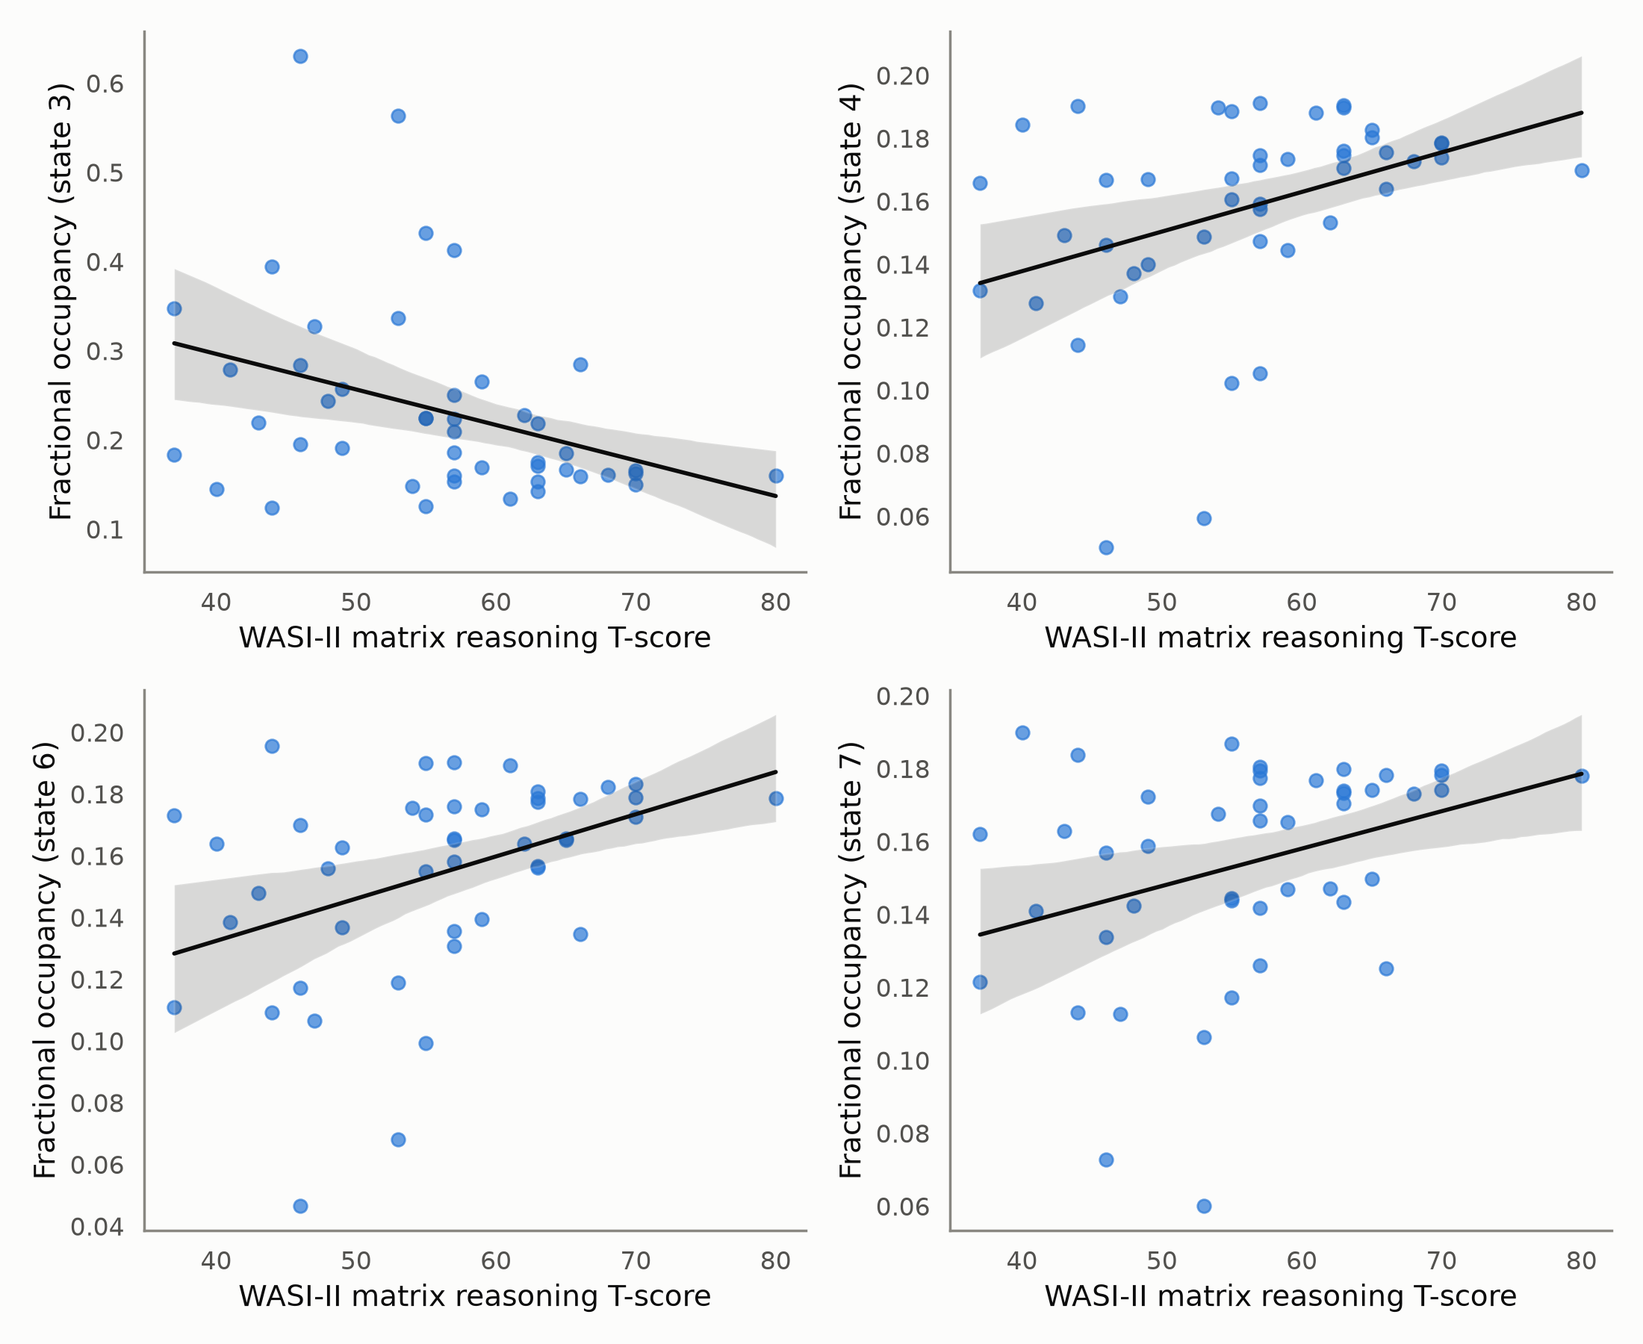
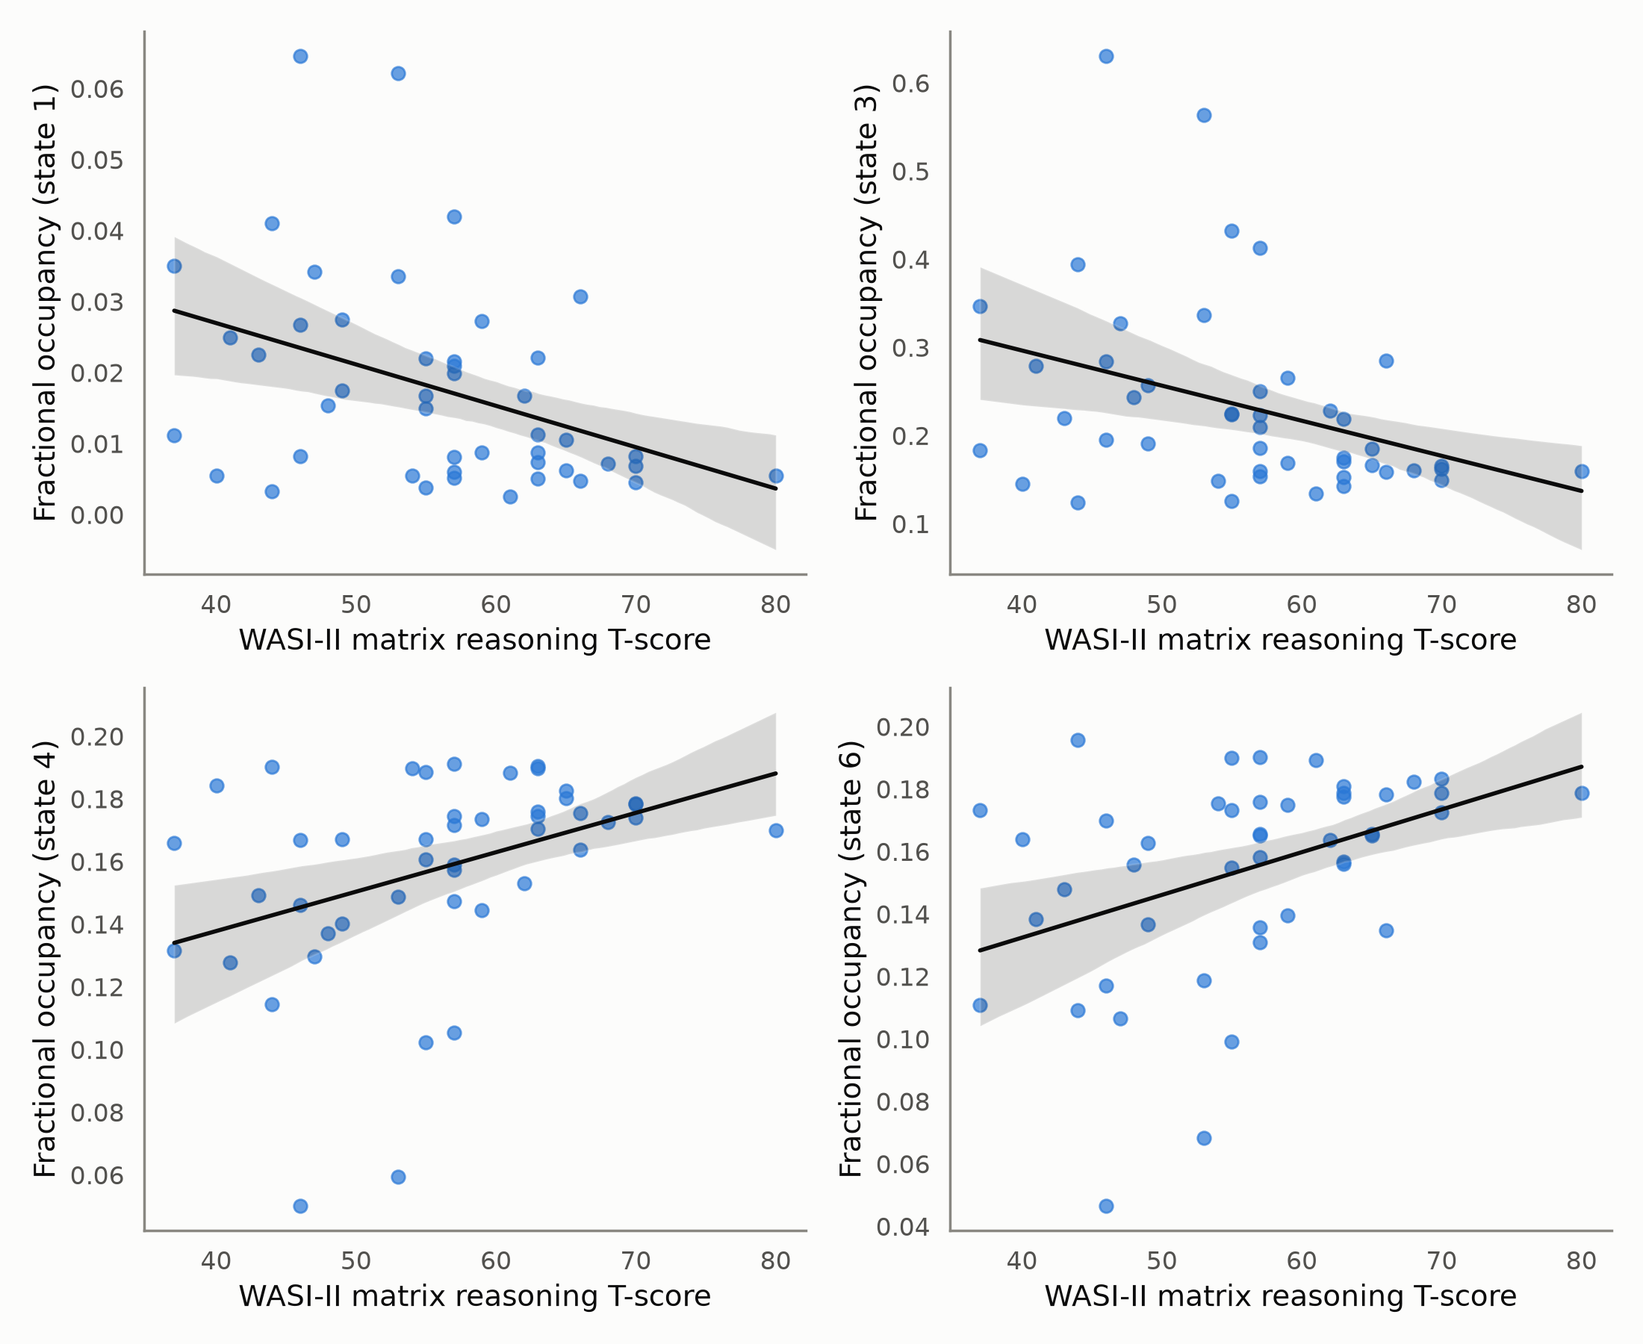
Report per-state simple slopes, not contrasts against a reference state
The treatment-coded model reports C(state)[T.k]:cognition as the DIFFERENCE
between state k's cognition slope and the reference state's, and the bare
cognition term as the reference state's own slope. Those were being read as
per-state effects, which they are not.

fit_state_metric_model_simple_slopes reparameterises to give each state its
own slope. The fit is unchanged - same fitted values, same residual df, it is
a change of basis - but three conclusions moved:

  - state 1 is significant for occupancy and interval; it had been hidden
    inside the "main effect" term
  - mean interval is significant for state 1 only, not for every state; the
    earlier all-states result was every state differing from state 1
  - states 2 and 5 are null throughout; they only differed from state 1
  - entropy ~ cognition falls to p_adj = 0.057, marginal against the 31-test
    family (0.031 if entropy is treated as its own 3-test family - an open
    decision now documented in the supplement)

Tests assert the reparameterisation preserves the fit and that a simple slope
equals reference slope plus its contrast, so the two cannot silently diverge.

Also adds a Markdown working copy of the manuscript and a notes file covering
errors found on re-reading it: Table 1's SDQ range, state 4 mislabelled as
fronto-parietal in the Discussion, the unsupported state-1 claim, the
participant-count inconsistency, and ~30 citations missing from the reference
list.

diff --git a/analysis/models.py b/analysis/models.py
@@ -113,6 +113,55 @@ def fit_state_metric_model_cluster_ols(
     return result, diagnostics
 
 
+def fit_state_metric_model_simple_slopes(
+    df: pd.DataFrame,
+    metric: str,
+    cognition_col: str = "WASI_T",
+    state_col: str = "state",
+    subject_col: str = "subject_id",
+):
+    """Per-state cognition slopes, each estimated in its own right.
+
+    `fit_state_metric_model` uses treatment coding, so its
+    `C(state)[T.k]:cognition` terms are the DIFFERENCE between state k's
+    cognition slope and the reference state's, and the bare `cognition`
+    term is the reference state's slope. That is the right model, but the
+    wrong parameterisation for the question this paper asks, which is "does
+    occupancy of state k relate to cognitive ability?" - not "does state k
+    differ from state 1?".
+
+    On the real data the distinction changed conclusions rather than just
+    wording: mean interval showed a significant difference-from-state-1 for
+    every state, but only state 1 itself had a non-zero slope; and states 2
+    and 5 looked significant for FO as differences while having no effect
+    of their own.
+
+    Dropping the standalone cognition main effect and keeping only
+    `C(state):cognition` makes patsy emit one coefficient per state, each
+    being that state's own slope. The model fit is identical (same design
+    space, same residuals) - only the basis changes, so this is a
+    reparameterisation rather than a different model. Age is kept as
+    `center(age) + center(age):cognition` written out explicitly, because
+    the `*` shorthand would reintroduce the cognition main effect and
+    collapse the per-state terms back into contrasts.
+    """
+    fixed_rhs = (
+        f"C({state_col}) + C({state_col}):center({cognition_col})"
+        f" + center(age) + center(age):center({cognition_col}) + C(sex)"
+    )
+    formula = f"{metric} ~ {fixed_rhs}"
+    result = smf.ols(formula, df).fit(cov_type="cluster", cov_kwds={"groups": df[subject_col]})
+
+    diagnostics = {"normality": _residual_normality(result.resid.values)}
+    return result, diagnostics
+
+
+def state_slope_terms(n_states: int = 7, cognition_col: str = "WASI_T", state_col: str = "state") -> list[str]:
+    """Coefficient names for the per-state slopes from
+    `fit_state_metric_model_simple_slopes`, in state order."""
+    return [f"C({state_col})[{k}]:center({cognition_col})" for k in range(1, n_states + 1)]
+
+
 def fit_subject_scalar_model(
     df: pd.DataFrame,
     outcome: str,

diff --git a/analysis/tests/test_models.py b/analysis/tests/test_models.py
@@ -8,8 +8,10 @@ from analysis.correction import correct_pvalues
 from analysis.models import (
     fit_state_metric_model,
     fit_state_metric_model_cluster_ols,
+    fit_state_metric_model_simple_slopes,
     fit_subject_scalar_model,
     fit_transition_matrix_model,
+    state_slope_terms,
     transition_column_sums,
 )
 
@@ -98,6 +100,41 @@ def test_fit_state_metric_model_cluster_ols_runs_and_returns_diagnostics(synthet
     assert result.cov_type == "cluster"
     assert "normality" in diagnostics
     assert "vif" in diagnostics
+
+
+def test_simple_slopes_gives_one_coefficient_per_state(synthetic_state_level):
+    result, _ = fit_state_metric_model_simple_slopes(synthetic_state_level, metric="FO")
+    terms = state_slope_terms(N_STATES)
+
+    assert len(terms) == N_STATES
+    for term in terms:
+        assert term in result.params.index, f"missing per-state slope: {term}"
+
+
+def test_simple_slopes_reparameterisation_preserves_the_fit(synthetic_state_level):
+    # Reparameterising must not change the model, only the basis: identical
+    # fitted values and residuals. If this ever fails, the two functions are
+    # fitting genuinely different models and their results aren't comparable.
+    treatment, _ = fit_state_metric_model_cluster_ols(synthetic_state_level, metric="FO")
+    simple, _ = fit_state_metric_model_simple_slopes(synthetic_state_level, metric="FO")
+
+    assert np.allclose(treatment.fittedvalues, simple.fittedvalues, atol=1e-8)
+    assert treatment.df_model == simple.df_model
+
+
+def test_simple_slope_equals_reference_slope_plus_its_contrast(synthetic_state_level):
+    # State k's simple slope should equal (reference slope + difference term)
+    # from the treatment-coded fit. This is the identity that makes the
+    # earlier misreading concrete: the treatment-coded interaction alone is
+    # NOT state k's slope.
+    treatment, _ = fit_state_metric_model_cluster_ols(synthetic_state_level, metric="FO")
+    simple, _ = fit_state_metric_model_simple_slopes(synthetic_state_level, metric="FO")
+
+    reference_slope = treatment.params["center(WASI_T)"]
+    for k in range(2, N_STATES + 1):
+        expected = reference_slope + treatment.params[f"C(state)[T.{k}]:center(WASI_T)"]
+        actual = simple.params[f"C(state)[{k}]:center(WASI_T)"]
+        assert actual == pytest.approx(expected, abs=1e-8)
 
 
 def test_fit_state_metric_model_runs_and_returns_diagnostics(synthetic_state_level):

diff --git a/analysis/permutation.py b/analysis/permutation.py
@@ -30,6 +30,7 @@ import pandas as pd
 from analysis.models import (
     fit_state_metric_model,
     fit_state_metric_model_cluster_ols,
+    fit_state_metric_model_simple_slopes,
     fit_subject_scalar_model,
 )
 
@@ -68,6 +69,7 @@ def permutation_test_state_metric_model(
     n_permutations: int = 1000,
     seed: int = 0,
     use_cluster_ols: bool = False,
+    simple_slopes: bool = False,
 ) -> pd.DataFrame:
     """Permutation p-values for `terms` (coefficient names as they appear in
     the fitted model's `.params`, e.g. `C(state)[T.3]:center(WASI_T)`) from
@@ -91,9 +93,20 @@ def permutation_test_state_metric_model(
     Do not enable this blindly on a dataset where the random-effect variance
     is genuinely non-zero: there the two estimators would legitimately
     differ, and the MixedLM path is the right one.
+
+    `simple_slopes=True` uses `fit_state_metric_model_simple_slopes`, whose
+    coefficients are each state's own cognition slope rather than its
+    difference from the reference state. Pass the term names from
+    `analysis.models.state_slope_terms` with it. This is what the paper's
+    per-state claims need; see that function's docstring.
     """
     rng = np.random.default_rng(seed)
-    fit_fn = fit_state_metric_model_cluster_ols if use_cluster_ols else fit_state_metric_model
+    if simple_slopes:
+        fit_fn = fit_state_metric_model_simple_slopes
+    elif use_cluster_ols:
+        fit_fn = fit_state_metric_model_cluster_ols
+    else:
+        fit_fn = fit_state_metric_model
 
     observed_result, _ = fit_fn(df, metric=metric, cognition_col=cognition_col, state_col=state_col, subject_col=subject_col)
     observed = {term: observed_result.params[term] for term in terms}

diff --git a/analysis/run_permutations.py b/analysis/run_permutations.py
@@ -30,7 +30,7 @@ from analysis.io import (
     load_transition_matrices,
     merged_state_level,
 )
-from analysis.models import transition_column_sums
+from analysis.models import state_slope_terms, transition_column_sums
 from analysis.permutation import (
     permutation_test_state_metric_model,
     permutation_test_subject_scalar_model,
@@ -38,10 +38,9 @@ from analysis.permutation import (
 
 FS = 250  # HMM_FinishPreprocessing.m: options.downsample = 250
 
-STATE_TERMS = [
-    "center(WASI_T)",
-    *[f"C(state)[T.{k}]:center(WASI_T)" for k in range(2, 8)],
-]
+# Each state's OWN cognition slope, not its difference from a reference
+# state - see analysis.models.fit_state_metric_model_simple_slopes.
+STATE_TERMS = state_slope_terms()
 ENTROPY_TERMS = ["center(WASI_T)", "center(age)", "center(WASI_T):center(age)"]
 
 
@@ -77,7 +76,7 @@ def main() -> None:
             warnings.simplefilter("ignore")
             res = permutation_test_state_metric_model(
                 df, metric=metric, terms=STATE_TERMS,
-                n_permutations=args.n_permutations, seed=args.seed, use_cluster_ols=True,
+                n_permutations=args.n_permutations, seed=args.seed, simple_slopes=True,
             )
         print(f"=== {label} ({args.n_permutations} permutations, {time.time() - t0:.0f}s) ===", flush=True)
         print(res.to_string(index=False), flush=True)

diff --git a/analysis/run_final_correction.py b/analysis/run_final_correction.py
@@ -48,13 +48,14 @@ def main() -> None:
 
     print()
     print("=" * 74)
-    print("BY STATE - state x cognition interaction terms (p_adjusted)")
+    print("BY STATE - each state's own cognition slope (p_adjusted)")
     print("=" * 74)
     print(f"{'State':<7}" + "".join(f"{m:<18}" for m in METRIC_ORDER))
-    for state in range(2, 8):
+    for state in range(1, 8):
         row = f"{state:<7}"
         for metric in METRIC_ORDER:
-            match = corrected[corrected["term"] == f"{metric}__C(state)[T.{state}]:center(WASI_T)"]
+            term = f"{metric}__C(state)[{state}]:center(WASI_T)"
+            match = corrected[corrected["term"] == term]
             if match.empty:
                 row += f"{'-':<18}"
             else:
@@ -64,7 +65,7 @@ def main() -> None:
     print("\n* = significant after correction")
 
     print()
-    print("Main / subject-level effects:")
+    print("Subject-level effects:")
     for _, r in corrected[~corrected["term"].str.contains(r"C\(state\)")].iterrows():
         marker = "*" if r["significant"] else " "
         print(f"  {marker} {r['term']:<45} p_raw={r['p_raw']:.5f}  p_adj={r['p_adjusted']:.5f}")

diff --git a/analysis/make_figures.py b/analysis/make_figures.py
@@ -46,9 +46,9 @@ BEHAVIOURAL_COLUMNS = [
     "SDQ_conduct", "SDQ_peerproblems", "SDQ_emotion", "SDQ_prosocial",
 ]
 
-# States surviving the final multiplicity correction across FO, interval and
-# transition-into-state (see supplement section 7).
-HIGHLIGHT_STATES = [3, 4, 6, 7]
+# States whose own occupancy slope survives the final multiplicity correction
+# (see supplement section 7). States 1 and 3 are negative, 4 and 6 positive.
+HIGHLIGHT_STATES = [1, 3, 4, 6]
 
 
 def _load(export_dir: Path):

diff --git a/supplement/statistical_methods_supplement.md b/supplement/statistical_methods_supplement.md
@@ -269,59 +269,97 @@ lifetime, interval, transition-into-state, and entropy rate - 31 tests total. Sw
 max_FO are deliberately excluded (§6.3: robustness/supplementary, not independent claims -
 including them would only dilute the correction budget for outcomes that matter).
 
-All p-values below are from **10,000-permutation** tests (see §7.1 on why the earlier
-500-permutation figures were refined). Adjusted values below ~0.031 are tied at the BH-FDR
-step-up threshold, which is expected when many raw p-values cluster tightly.
+All p-values below are from **10,000-permutation** tests on **per-state simple slopes** - each
+state's own cognition slope, not its difference from a reference state. See §7.1 for why this
+distinction was corrected mid-analysis and what it changed.
 
-**Significant after correction** (16 of 31 terms):
+**Significant after correction** (7 of 31 terms). Each cell is that state's own cognition
+slope, BH-FDR adjusted across all 31:
 
-| State | FO | Interval | Transition-into-state | Lifetime |
-|---|---|---|---|---|
-| 2 | ns (0.067) | **0.030** | ns (0.161) | ns (0.106) |
-| 3 | **0.037** | **0.030** | **0.030** | ns (0.700) |
-| 4 | **0.030** | **0.030** | *marginal (0.051)* | ns (0.086) |
-| 5 | ns (0.080) | **0.030** | ns (0.146) | ns (0.106) |
-| 6 | **0.030** | **0.030** | **0.040** | ns (0.090) |
-| 7 | **0.030** | **0.030** | *marginal (0.075)* | ns (0.090) |
+| State | Label | FO | Transition-into | Interval | Lifetime |
+|---|---|---|---|---|---|
+| 1 | DMN+ | **0.035** (−) | ns (0.169) | **0.046** (+) | ns (0.121) |
+| 2 | VT+ | ns (0.326) | ns (0.389) | ns (0.770) | ns (0.176) |
+| 3 | DMN− | **0.046** (−) | **0.035** (−) | ns (0.121) | ns (0.121) |
+| 4 | SM+/FT− | **0.035** (+) | **0.035** (+) | ns (0.770) | ns (0.770) |
+| 5 | V+/FT− | ns (0.259) | ns (0.770) | ns (0.953) | ns (0.094) |
+| 6 | FP+/V− | **0.035** (+) | **0.035** (+) | ns (0.617) | ns (0.524) |
+| 7 | LP+/DMN− | *marginal (0.057)* (+) | *marginal (0.076)* (+) | ns (0.802) | ns (0.330) |
 
-Subject-level / main effects: entropy rate with **age** p_adj = **0.030**; entropy rate with
-**cognition** p_adj = **0.040**; FO main effect of cognition **0.030**; interval main effect
-**0.030**. The entropy rate **age x cognition interaction is not significant** (p_adj = 0.70) -
-i.e. the cognition relationship does not itself change across this age range, which is worth
-reporting rather than omitting.
+Signs in brackets give the direction of the relationship with cognitive ability.
 
-### Reading the pattern: *how often*, not *how long*
+Subject-level effects:
 
-The four metrics are not interchangeable, and the pattern across them is the actual finding:
+| Effect | p_raw | p_adjusted | |
+|---|---|---|---|
+| Entropy rate ~ **age** | 0.0013 | **0.035** | significant |
+| Entropy rate ~ **cognition** | 0.0203 | 0.057 | *marginal* |
+| Entropy rate ~ age × cognition | 0.6995 | 0.770 | ns |
 
-- **Fractional occupancy** gives **state-specific** effects: states **3, 4, 6, 7** significant;
-  states 2 and 5 not. Direction matters - state 3 is **negative** (higher cognitive ability ->
-  *less* occupancy) while 4, 6, 7 are **positive** (see `figures/cognition_fo_scatters.png`).
-- **Transition-into-state** is the most conservative and also state-specific: only **3 and 6**
-  clear correction, with **4 (0.051) and 7 (0.075) marginal**. Same direction pattern as FO.
-- **Interval** is significant for **every state**, with near-identical coefficients
-  (-0.146 to -0.152). That uniformity is the tell: mean interval between visits to *any* state
-  shrinks whenever a child switches states more overall, so this is very likely the global
-  switching-rate/entropy effect re-expressed once per state, **not six independent
-  state-specific findings**. It should be reported as such, not as the paper's broadest result.
-- **Lifetime survives for no state at all** (best p_adj = 0.086).
+### Reading the pattern
 
-Taken together: individual differences here are in **how often children enter these states, not
-how long they stay once there**. That is a direct, evidence-based answer to Reviewer #3's
-concern 5 ("higher fractional occupancies can be a consequence of more transitions into a
-state… or by longer life times, which is not tested") - it is now tested, and the answer is
-transitions rather than durations.
+- **Occupancy and transition-into-state agree, and they are state-specific.** States **3, 4 and
+  6** are significant on both; state **1** on occupancy; state **7** marginal on both. States 2
+  and 5 show nothing. Directions are coherent rather than scattered: the two DMN states (1
+  activation, 3 suppression) are **negative** - higher cognitive ability means less time in, and
+  fewer transitions into, DMN-dominated states - while the task-positive states (4 somatomotor,
+  6 fronto-parietal, 7 left-parietal) are **positive**.
+- **Interval survives only for state 1** (p_adj = 0.046, positive): higher-ability children take
+  *longer to return* to the rarely-visited DMN-activation state. This is consistent with its
+  negative occupancy effect and is a coherent single finding, not a broad interval effect.
+- **Lifetime survives for no state.** Best adjusted p is 0.094 (state 5).
 
-**States 3 and 6 are significant on both state-specific metrics**; states 4 and 7 are
-significant on occupancy and marginal on transitions. This convergence across
-independently-computed metrics under one correction spanning the entire paper is substantially
-more defensible than any single analysis in isolation.
+Taken together, individual differences are in **how often children enter these states, not how
+long they stay once there** - occupancy and entry frequency carry the effects, dwell time does
+not. This is a direct answer to the question of what drives the occupancy effects: transitions
+rather than durations.
 
-Recommended framing for the manuscript: **states 3, 4, 6 and 7** as the cognition-related
-states (noting 4 and 7 rest on occupancy with marginal transition support), entropy rate's
-**age** relationship as a second headline result, the *how often not how long* contrast as the
-mechanistic story, and switching rate / max FO / lifetime as supporting detail. This is a
-recommendation pending author sign-off.
+### 7.1 A correction to the parameterisation (and what it changed)
+
+An earlier pass reported the treatment-coded interaction terms from
+`fit_state_metric_model` as if they were per-state effects. They are not: with treatment
+coding, `C(state)[T.k]:cognition` is the **difference** between state k's slope and the
+reference state's, and the bare `cognition` term is the reference state's own slope. The model
+was correct; the reading of its coefficients was not.
+
+`fit_state_metric_model_simple_slopes` reparameterises to give each state's own slope. The fit
+is identical (verified: same fitted values, same residual degrees of freedom - it is a change of
+basis, not of model), but the conclusions moved in three places:
+
+| | Previous (misread) | Corrected |
+|---|---|---|
+| **State 1** | absent - hidden inside the "main effect" term | **significant** for occupancy and interval |
+| **Interval** | significant for *every* state | significant for **state 1 only**; states 2-7 null |
+| **States 2 and 5** | appeared significant for interval | null throughout - they only *differed from* state 1 |
+| **Entropy ~ cognition** | p_adj = 0.040, significant | p_adj = 0.057, **marginal** |
+
+The earlier "interval is significant everywhere, so it must be re-expressing a global switching
+effect" reasoning was chasing an artefact of the reference coding: every state differed from
+state 1 because state 1 was the only state with an interval effect.
+
+### 7.2 Open question: is the correction family right?
+
+Entropy rate's relationship with cognition sits at **p_raw = 0.0203, p_adj = 0.057** against the
+31-test family. Corrected within its own 3-test family instead, it would be **p_adj = 0.031**
+and significant. This matters because it is the paper's title claim.
+
+Both family definitions are defensible, and the choice must be made on principle rather than on
+which gives the nicer answer:
+
+- **One family of 31** (used above): maximally conservative, hardest to attack, and consistent
+  with the stated goal of correcting across everything the paper reports. Costs the entropy
+  claim its significance.
+- **Two families** - global dynamics (entropy: 3 tests) and state-specific metrics (28 tests):
+  arguably better matched to the questions asked, since the reviewers' objection was to
+  repeatedly testing the *same* question across states without correction, not to combining two
+  genuinely different questions. Recovers the entropy claim at p_adj = 0.031.
+
+**Whichever is chosen must be stated a priori in Methods and applied uniformly.** Choosing after
+seeing both is exactly the practice the original submission was criticised for. Author decision
+required - this is not a decision the analysis can make.
+
+Note that entropy rate's relationship with **age** (p_adj = 0.035) survives either way, as do
+the state-specific occupancy and transition effects.
 
 ### 7.1 Why the p-values changed from the 500-permutation run
 
